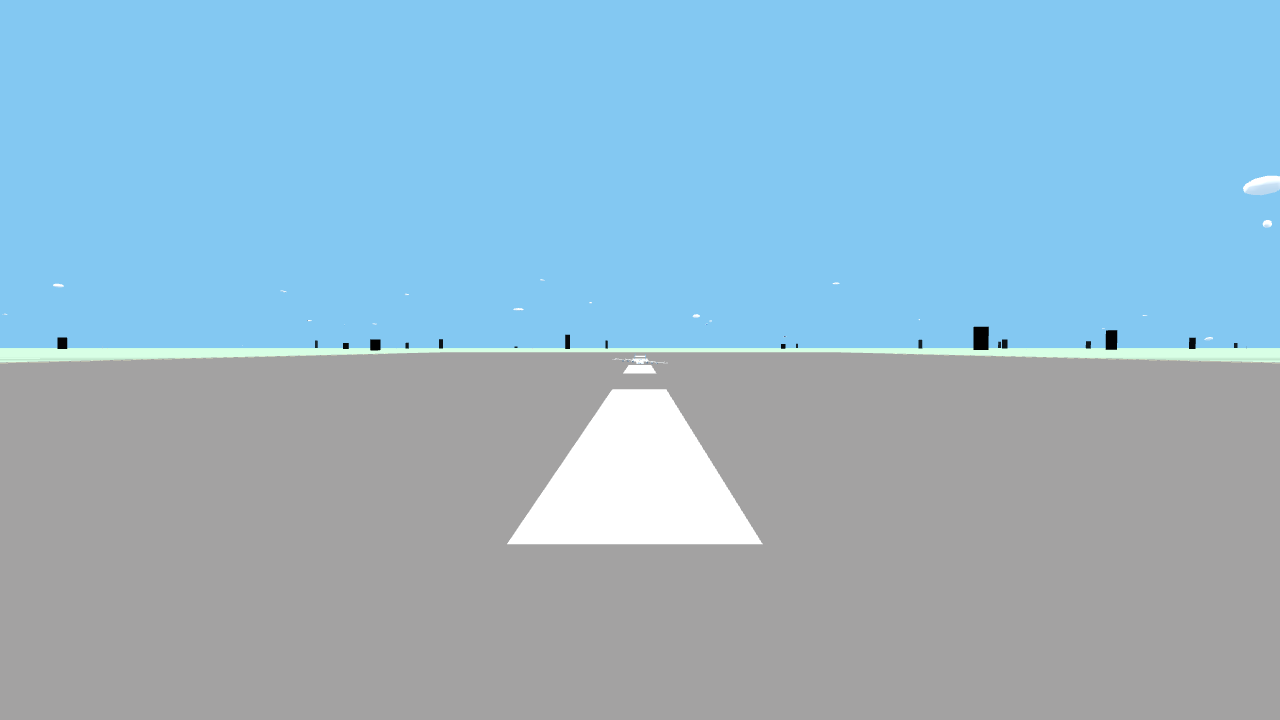
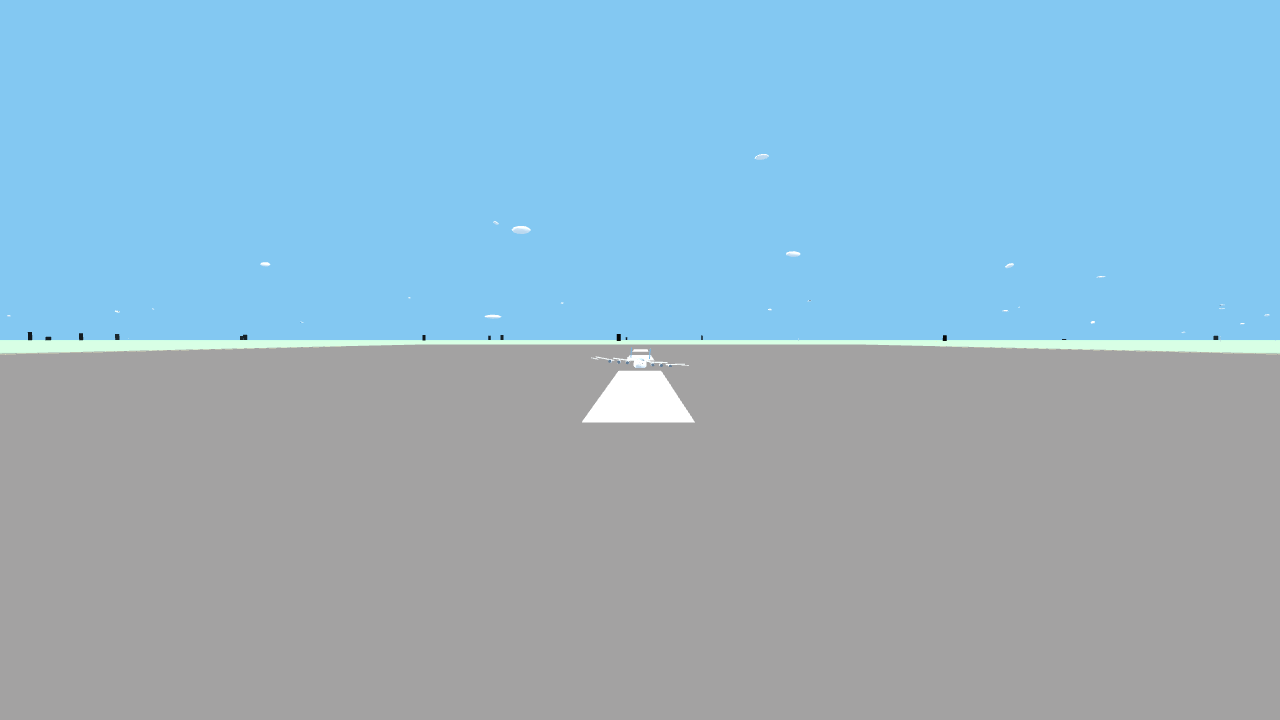
feat: load real A380 GLB with loading UI and procedural fallback

Changed region(s): [[0.0, 0.4583, 1.0, 0.55], [0.375, 0.55, 0.5938, 0.7639], [0.9688, 0.2444, 1.0, 0.275]]

diff --git a/index.html b/index.html
@@ -130,6 +130,28 @@
       padding: 8px 12px;
     }
 
+    #model-loading {
+      position: absolute;
+      top: 12px;
+      right: 12px;
+      z-index: 30;
+      color: #ffffff;
+      font-weight: 700;
+      font-size: clamp(12px, 1.6vw, 15px);
+      padding: 8px 12px;
+      border-radius: 10px;
+      border: 1px solid rgba(255, 255, 255, 0.65);
+      background: rgba(0, 0, 0, 0.35);
+      text-shadow: 0 1px 3px rgba(0, 0, 0, 0.5);
+      pointer-events: none;
+      opacity: 0;
+      transition: opacity 0.24s ease;
+    }
+
+    #model-loading.show {
+      opacity: 1;
+    }
+
     #joy,
     #throttle {
       position: absolute;
@@ -222,6 +244,7 @@
 
   <div id="throttle"><div id="throttle-knob"></div></div>
   <div id="joy"><div id="stick"></div></div>
+  <div id="model-loading">3D 机模加载中...</div>
 
   <div class="instruction">左侧油门控制速度，右侧摇杆控制俯仰与滚转</div>
 
@@ -240,6 +263,7 @@
     const stick = document.getElementById('stick');
     const throttle = document.getElementById('throttle');
     const throttleKnob = document.getElementById('throttle-knob');
+    const modelLoadingEl = document.getElementById('model-loading');
     const altEl = document.getElementById('alt');
     const spdEl = document.getElementById('spd');
     const landStatusEl = document.getElementById('land-status');
@@ -303,6 +327,12 @@
     const wheelMat = new THREE.MeshStandardMaterial({ color: 0x1a1d22, roughness: 0.86, metalness: 0.02 });
     const strutMat = new THREE.MeshStandardMaterial({ color: 0xa6afbd, roughness: 0.35, metalness: 0.45 });
     const windowMat = new THREE.MeshStandardMaterial({ color: 0x7fb4de, roughness: 0.2, metalness: 0.5 });
+
+    function setModelLoading(text, visible = true) {
+      if (!modelLoadingEl) return;
+      modelLoadingEl.textContent = text;
+      modelLoadingEl.classList.toggle('show', visible);
+    }
 
     function addMirror(root, mesh, x) {
       const a = mesh.clone();
@@ -472,30 +502,46 @@
     function loadExternalAn225(root, url) {
       return new Promise((resolve) => {
         if (!THREE.GLTFLoader) {
+          setModelLoading('GLTFLoader 不可用，使用程序化机模', true);
+          setTimeout(() => setModelLoading('', false), 1800);
           resolve(false);
           return;
         }
         const loader = new THREE.GLTFLoader();
         loader.setCrossOrigin('anonymous');
+        setModelLoading('3D 机模加载中 0%', true);
         loader.load(url, (gltf) => {
           const model = gltf.scene || (gltf.scenes && gltf.scenes[0]);
           if (!model) {
+            setModelLoading('机模为空，回退程序化版本', true);
+            setTimeout(() => setModelLoading('', false), 1800);
             resolve(false);
             return;
           }
 
-          const box = new THREE.Box3().setFromObject(model);
-          const size = new THREE.Vector3();
-          box.getSize(size);
-          const center = new THREE.Vector3();
-          box.getCenter(center);
-          const maxDim = Math.max(size.x, size.y, size.z) || 1;
-          const targetLength = 46;
-          const s = targetLength / maxDim;
-          model.scale.setScalar(s);
-          model.position.sub(center.multiplyScalar(s));
-          model.rotation.y = Math.PI;
-          model.position.y += 1.1;
+          // Normalize orientation/scale/offset for consistent in-game framing.
+          model.rotation.set(0, Math.PI, 0);
+          model.updateMatrixWorld(true);
+
+          const boxRaw = new THREE.Box3().setFromObject(model);
+          const sizeRaw = new THREE.Vector3();
+          boxRaw.getSize(sizeRaw);
+          const horizontalRaw = Math.max(sizeRaw.x, sizeRaw.z) || 1;
+          const targetHorizontal = 28;
+          const scale = THREE.MathUtils.clamp(targetHorizontal / horizontalRaw, 0.05, 7.5);
+          model.scale.setScalar(scale);
+          model.updateMatrixWorld(true);
+
+          const boxScaled = new THREE.Box3().setFromObject(model);
+          const centerScaled = new THREE.Vector3();
+          boxScaled.getCenter(centerScaled);
+          model.position.sub(centerScaled);
+          model.updateMatrixWorld(true);
+
+          const boxCentered = new THREE.Box3().setFromObject(model);
+          model.position.y -= boxCentered.min.y;
+          model.position.y += 0.62;
+          model.position.z -= 0.25;
 
           model.traverse((child) => {
             if (!child.isMesh) return;
@@ -523,9 +569,17 @@
 
           propRoot = null;
           planeModelSource = 'external_glb';
+          setModelLoading('已加载真实 3D 机模 (A380)', true);
+          setTimeout(() => setModelLoading('', false), 1800);
           log('Loaded external An-225 model', { url });
           resolve(true);
-        }, undefined, (err) => {
+        }, (progressEvent) => {
+          if (!progressEvent || !progressEvent.total) return;
+          const p = Math.min(100, Math.round((progressEvent.loaded / progressEvent.total) * 100));
+          setModelLoading(`3D 机模加载中 ${p}%`, true);
+        }, (err) => {
+          setModelLoading('机模加载失败，已回退程序化版本', true);
+          setTimeout(() => setModelLoading('', false), 2200);
           log('External An-225 load failed, fallback to procedural', err && err.message ? err.message : err);
           resolve(false);
         });
@@ -534,7 +588,7 @@
 
     buildProceduralAn225(planeVisual);
     planeModelSource = 'procedural';
-    const externalAn225Url = 'https://s3-eu-west-1.amazonaws.com/fetchcfd/original/file-1755720206320.glb';
+    const externalAn225Url = 'https://raw.githubusercontent.com/Ysurac/FlightAirMap-3dmodels/master/a380/glTF2/A380.glb';
     loadExternalAn225(planeVisual, externalAn225Url).then((ok) => {
       if (!ok) {
         planeModelSource = 'procedural';
@@ -1217,6 +1271,10 @@
           engineHighHz: engineOscHigh ? Number(engineOscHigh.frequency.value.toFixed(2)) : 0,
           windHz: windFilter ? Number(windFilter.frequency.value.toFixed(2)) : 0,
           windGain: windGain ? Number(windGain.gain.value.toFixed(4)) : 0
+        },
+        modelLoading: {
+          visible: Boolean(modelLoadingEl && modelLoadingEl.classList.contains('show')),
+          text: modelLoadingEl ? modelLoadingEl.textContent : ''
         }
       };
       return JSON.stringify(payload);
